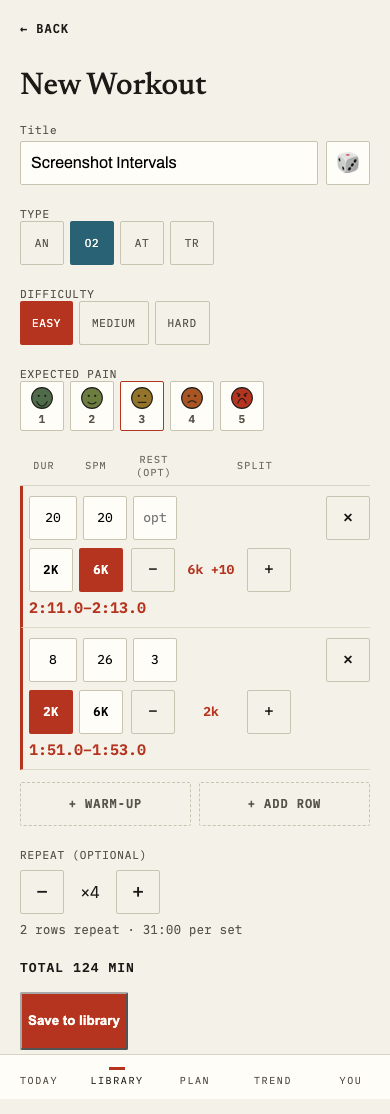
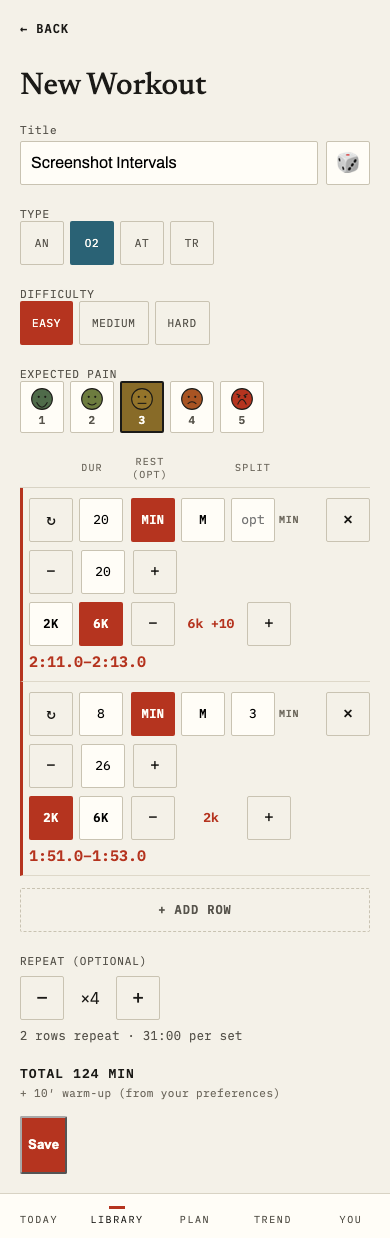
test: e2e and design coverage for the simplified builder
- builder.spec.ts already exercised the clone/DurationInput/SpmInput/×N
  controls (Task 4's e2e rewrite) — adds the four new-behavior cases the
  brief called out: clone duplicates every row field before ×5 repeats a
  single 1' @ 6k-2 row into a hardcoded 5 MIN total on the detail screen; a
  bulk-imported wu row survives an edit round trip and the PUT body still
  carries it; the dice fix holds end to end (two presses, two titles); SPM's
  + from empty wakes at 20.
- design.spec.ts's existing 44x44/axe sweeps over the builder (default and
  error states) and import screen already pass against the reworked markup —
  re-run as part of `pnpm e2e`, no violations, no markup changes needed.
- Re-captured docs/screenshots/builder.png (fullPage, from the top of the
  form) against the new row controls.
- Recorded the SET->clone+derived-span and +WARM-UP->preference deviations
  in DEVIATIONS.md (updating the now-stale rows from earlier phases) plus two
  new rows for the DUR and SPM free-text -> structured-control changes.

Claude-Session: https://claude.ai/code/session_01UEXqdgDid4Qjd8D5uoRZ3H

diff --git a/app/e2e/builder.spec.ts b/app/e2e/builder.spec.ts
@@ -356,4 +356,160 @@ test.describe("new controls this phase introduced", () => {
 
     await expect(page.getByLabel("Title")).toBeFocused();
   });
+
+  test("cloning row 1 duplicates every field, and ×5 on the remaining single row repeats it 5 times", async ({
+    page,
+  }) => {
+    await signInViaBackdoor(page, {
+      email: "builder-clone-reps@e2e.test",
+      name: "Builder Clone Reps Tester",
+    });
+    await setBaselines(page);
+    await page.goto("/library/new");
+
+    const title = "Clone Reps Row";
+    await page.getByLabel("Title").fill(title);
+    await page.getByRole("radio", { name: "Pain 2" }).click();
+    await page.getByLabel("Row 1 duration", { exact: true }).fill("1");
+    const fasterButton = page.getByRole("button", {
+      name: "Row 1 pace faster",
+    });
+    await fasterButton.click();
+    await fasterButton.click();
+
+    // The clone button (row-clone, "↻") is the SET cell's replacement
+    // (docs/design/DEVIATIONS.md) — prove it actually copies every field,
+    // not just that a second row appears, by reading the duplicate's
+    // duration and pace back. This two-row shape is a deliberate
+    // intermediate: the test collapses back to one row below so `×5`
+    // multiplies exactly the `5×1′ @ 6k−2` workout it's named for, not a
+    // 10-phase one.
+    await page.getByRole("button", { name: "Duplicate Row 1" }).click();
+    await expect(
+      page.getByLabel("Row 2 duration", { exact: true }),
+    ).toHaveValue("1");
+    await expect(
+      page.locator(".step-row-editor").nth(1).locator(".pace-ref-display"),
+    ).toHaveText("6k −2");
+
+    await page
+      .locator(".step-row-editor")
+      .nth(1)
+      .getByRole("button", { name: "Remove row" })
+      .click();
+    await expect(page.locator(".step-row-editor")).toHaveCount(1);
+
+    // The bottom-only ×N control (no more per-row SET) — 4 presses from the
+    // default ×1 reaches ×5.
+    const moreReps = page.getByRole("button", { name: "More reps" });
+    for (let i = 0; i < 4; i++) {
+      await moreReps.click();
+    }
+    await expect(page.locator(".builder-reps-count")).toHaveText("×5");
+
+    await page.getByRole("button", { name: "Save" }).click();
+
+    await expect(page).toHaveURL(/\/library\/[^/]+$/);
+    // One row, 1 minute, ×5, no warm-up/rest bookends — five work phases'
+    // worth of duration is 5 minutes total (domain/expand.ts's
+    // estimateMinutes), asserted here as a hardcoded literal rather than
+    // recomputed via the production function under test.
+    await expect(page.locator("p.mono-status").first()).toContainText("5 MIN");
+
+    await cleanupByTitle(page, title);
+  });
+
+  test("editing a workout with a stored warm-up keeps its wu row, and Save still PUTs it unchanged", async ({
+    page,
+  }) => {
+    await signInViaBackdoor(page, {
+      email: "builder-wu-edit@e2e.test",
+      name: "Builder WU Edit Tester",
+    });
+    await setBaselines(page);
+    // The builder has no `+ WARM-UP` control any more (docs/design/
+    // DEVIATIONS.md) — a `wu` row can only land in a form via bulk import
+    // or an already-saved workout, so bulk import is how this test
+    // manufactures one to then edit, mirroring every starter workout's own
+    // shape (they all open with a stored warm-up).
+    await page.goto("/library/import");
+    const title = "WU Edit Row";
+    const text = [`${title} | O2 | easy | 2`, "wu 5", "w 10' 6k @20"].join(
+      "\n",
+    );
+    await page.getByLabel("Bulk import text").fill(text);
+    await page.getByRole("button", { name: "Import", exact: true }).click();
+    await expect(page).toHaveURL(/\/library$/);
+
+    await page.locator(".workout-row").filter({ hasText: title }).click();
+    await expect(page.locator("h1.workout-detail-title")).toHaveText(title);
+    await page.getByRole("link", { name: "Edit" }).click();
+    await expect(page).toHaveURL(/\/library\/[^/]+\/edit$/);
+
+    // Row 1 is the stored `wu` row — StepRowEditor's non-work branch, so it
+    // renders only a duration field (no pace/SPM/rest), still showing the
+    // 5 minutes bulk import stored.
+    await expect(
+      page.getByLabel("Row 1 duration", { exact: true }),
+    ).toHaveValue("5");
+    await expect(
+      page.getByRole("radio", { name: "Row 1 duration unit minutes" }),
+    ).toHaveAttribute("aria-checked", "true");
+
+    const putRequestPromise = page.waitForRequest(
+      (req) => req.method() === "PUT" && req.url().includes("/api/workouts/"),
+    );
+    await page.getByRole("button", { name: "Save" }).click();
+    const putRequest = await putRequestPromise;
+    const body = putRequest.postDataJSON() as {
+      steps: Array<{ k: string }>;
+    };
+    expect(body.steps.some((s) => s.k === "wu")).toBe(true);
+
+    await expect(page).toHaveURL(/\/library\/[^/]+$/);
+    await cleanupByTitle(page, title);
+  });
+
+  test("pressing the dice icon twice yields two different suggested titles", async ({
+    page,
+  }) => {
+    await signInViaBackdoor(page, {
+      email: "builder-dice-twice@e2e.test",
+      name: "Builder Dice Twice Tester",
+    });
+    await setBaselines(page);
+    await page.goto("/library/new");
+
+    const titleInput = page.getByLabel("Title");
+    const dice = page.getByRole("button", { name: "Suggest a name" });
+    await dice.click();
+    const first = await titleInput.inputValue();
+    await dice.click();
+    const second = await titleInput.inputValue();
+
+    // The reported bug, end to end: nameGenerator.ts used to probe linearly
+    // forward from a seed-derived start index, and its noun list opened
+    // with the same weather words the starter library's own titles use —
+    // every seed inside that taken cluster slid to the same first-free
+    // slot, so repeated presses returned the same name forever (fixed in
+    // Task 1; unit-covered in nameGenerator.test.ts against the real
+    // starter library — this proves the same fix through the live UI).
+    expect(second).not.toBe(first);
+  });
+
+  test("SPM's + from an empty field shows 20, not 21", async ({ page }) => {
+    await signInViaBackdoor(page, {
+      email: "builder-spm-wake@e2e.test",
+      name: "Builder SPM Wake Tester",
+    });
+    await setBaselines(page);
+    await page.goto("/library/new");
+
+    const spmField = page.getByLabel("Row 1 stroke rate", { exact: true });
+    await expect(spmField).toHaveValue("");
+    await page
+      .getByRole("button", { name: "Row 1 stroke rate increase" })
+      .click();
+    await expect(spmField).toHaveValue("20");
+  });
 });

diff --git a/docs/design/DEVIATIONS.md b/docs/design/DEVIATIONS.md
@@ -14,8 +14,10 @@ here. These are intentional product decisions (spec:
 | Sample data: 11 book-derived workouts ("Lucky Penny", …) | Original ~35-workout starter library (original names), seeded per new account | Content policy |
 | "11 OF 375 ENTERED" library counter | Plain count of the user's library (no fixed denominator) | 375 is the book's scale, not ours |
 | `ink-4` `#8a8478` for mono labels (e.g. "33D AGO", step sub-lines) | `ink-4` **`#6f6a5f`** | `#8a8478` measures 3.29:1 on `--page` and 3.65:1 on `--surface` — below the handoff's own WCAG AA (≥4.5:1) requirement for this text size. `#6f6a5f` measures 4.76:1 on `--page` and 5.29:1 on `--surface`, passing AA while preserving the four-tier ink hierarchy (ink → ink-2 → ink-3 → ink-4) rather than collapsing small labels into ink-3. AA is the hard requirement; the literal hex was not. |
-| Builder's SET cell marks individual rows into the set (`inSet` per row, totals sum only marked rows) | SET cell instead chooses where the repeat block **starts**: clicking a row marks it and every row after it, clicking the current start clears the block, clicking another row inside the block moves the start | The domain expresses a repeat as a single `reps` marker after which everything repeats — it has no way to represent non-contiguous marks. Copying the handoff's per-row model was tried and proven unsound: a previous review showed it produces a builder total of 27 while the Library shows 31 for the same saved workout, because a non-contiguous mark set can't round-trip through one marker. The block-start model always produces exactly one coherent, visible outcome per click and keeps the builder's total in agreement with the duration shown everywhere else for the same workout. |
-| Single generic `+ ADD ROW` control (the mockup's `nwRows` model has no `kind` field at all — every added row is implicitly a work row) | Two controls — `+ WARM-UP` and `+ ADD ROW` (work), each adding a row of the corresponding `RowKind` (`wu`/`w`) | The domain distinguishes warm-up, work, and rest steps, and every starter workout in the book opens with a warm-up. A builder that can only ever add work rows can't author a warm-up from scratch — `StepRowEditor`'s minutes-only branch was dead code in create mode until this. There is no `+ REST` control: rest is authored via a work row's own `REST (OPT)` field instead. `RowKind` still has `"r"` and `StepRowEditor` still renders its minutes-only branch for it — bulk import and edit-mode `fromWorkout` can still produce a standalone rest step, and a pasted or previously-saved workout has to stay editable — it's just not reachable from a create-mode button any more. |
+| Builder's SET cell marks individual rows into the set (`inSet` per row, totals sum only marked rows) | No per-row marking of any kind any more. The repeat span is **derived**: any leading bookend rows (today just `wu`) sit outside it, everything else repeats — there is nothing to click to define it. The SET cell's old screen position is now a **clone** button (`↻`, duplicates the row directly beneath it, `aria-label="Duplicate Row N"`); the rep count is one `×N` stepper beneath the row list (`REPEAT (OPTIONAL)`). | First deviation (still true of why per-row marking was rejected at all): the domain expresses a repeat as a single `reps` marker after which everything repeats — it has no way to represent non-contiguous marks. Copying the handoff's per-row model was tried and proven unsound: a previous review showed it produced a builder total of 27 while the Library showed 31 for the same saved workout, because a non-contiguous mark set can't round-trip through one marker. The fix that shipped first — SET choosing where a contiguous block **starts** — was itself abandoned after a second round of device feedback: James could not tell what the SET cell did even in that form. Deriving the span from row kind removes the control (and the question) entirely; clone and repeat are now two separately-labeled, self-explanatory controls instead of one overloaded cell. |
+| Single generic `+ ADD ROW` control (the mockup's `nwRows` model has no `kind` field at all — every added row is implicitly a work row) | A single `+ ADD ROW` control, work rows only — no `+ WARM-UP` any more. Warm-up leaves the workout entirely: it's read from the rower's preferences (`GET /api/prefs`'s `warmupMinutes`) and shown as a line beneath TOTAL, applied at session start rather than authored per workout. | `+ WARM-UP` existed for one phase because the domain distinguishes warm-up, work, and rest steps and every starter workout in the book opens with one — a builder that could only ever add work rows couldn't author a warm-up from scratch. A later round of device feedback found authoring one per workout was pointless friction: every session uses the same easy warm-up regardless of which workout follows it, so it moved to a one-time preference instead of a per-workout row. `addRow(f, "wu")` and `StepRowEditor`'s `wu` branch stay in the code — bulk import and edit-mode `fromWorkout` can still produce/keep a stored `wu` step, and a pasted or previously-saved workout that already has one must stay editable — it's just not authorable from a blank builder any more. There is likewise no `+ REST` control: rest is authored via a work row's own `REST (OPT)` field instead, for the same "not reachable from a create-mode button, but still editable" reason. |
+| Free-text `DUR` field (`input placeholder="1'"`) — the encoding (minutes vs. meters) is implied only by what the rower happens to type | A numeric value field paired with a two-chip **MIN / M** unit toggle (`DurationInput`), each control ≥44px | Free text left the unit ambiguous — a rower had to remember whether to type a bare number, `10'`, or `2500m`, the same category of defect (an invalid or ambiguous hand-typed value) that started this phase for PACE REF below. The toggle makes both encodings equally easy to author with nothing to remember, and the value field alone stays a plain number `toSteps` bounds-checks directly, no grammar involved. |
+| Free-text `SPM` field (`input placeholder="24"`, 40px) | A clearable numeric field flanked by 44px −/+ steppers (`SpmInput`) that **wake at 20** from empty on either button's first press, then step by 1 and clamp to 10..60 | SPM stays optional — an empty field is valid and must round-trip as absent, so opening a workout can never write a value into a rower's data just by rendering the row. A free-text field alone already supported "no value"; the steppers are added convenience for the common case (start at a sane default, nudge from there) without losing that — clearing the field back to empty is still one keystroke. The field's own tap-target width (40px in the handoff) is the next row's deviation, not repeated here. |
 | Builder SPM field 40px wide (§11) | 44px, matching every other control | The handoff names "every tappable element is ≥44×44px" as one of two constraints that must be preserved, then specifies a 40px field — the constraint governs the literal width. Caught by the e2e tap-target sweep at 40/44 ≈ 0.91 |
 | Workout numbers everywhere (`NO. 159`, `159. Lucky Penny`, a `No.` field in the builder) | No numbers in the UI at all; `sort_order` orders the library invisibly | The number is a book-catalogue artifact. Requiring one when authoring forced an invented value, and globals and personal rows number independently so the same number could appear twice. Ordering is what the column was actually doing |
 | §11's 64px accent-text `PACE REF` field, accepting free text (`2k`/`6k-2`/`2k+4`) per a named regex | A `2K`/`6K` chip pair plus a ±60 offset stepper, on its own line beneath the row | Free text let a rower type `8k` and get an inline error — the defect that started this phase; a structured control makes an invalid ref unrepresentable. Four extra tappables (two base chips, two stepper buttons) don't fit inline at 390px |
